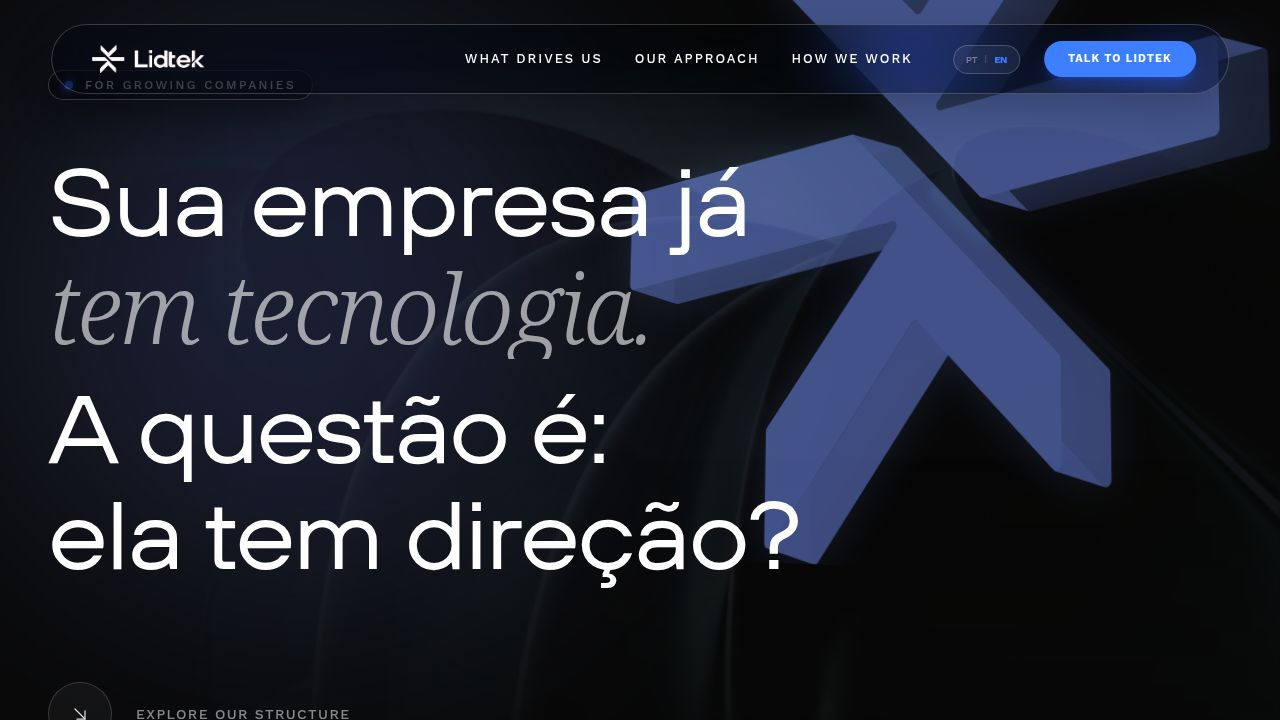
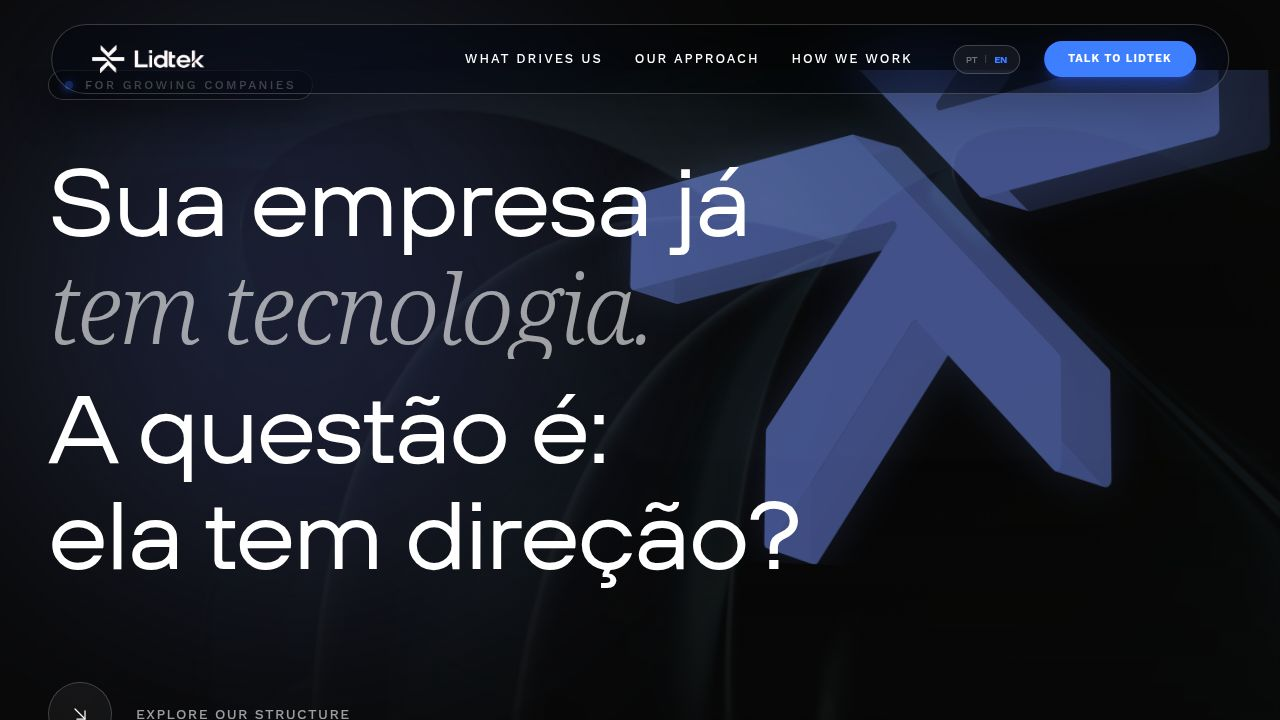
Improve hero section layout and spacing on mobile devices
Adjusted Hero component styling in Hero.tsx to fix mobile layout issues by modifying background SVG positioning, reducing vertical padding, and controlling overflow.

Replit-Commit-Author: Agent
Replit-Commit-Session-Id: 33ac10cf-a4e3-4095-859a-24f422063618
Replit-Commit-Checkpoint-Type: full_checkpoint
Replit-Commit-Event-Id: 1b3940f1-3aea-4555-aa34-38a73a30eb3a
Replit-Commit-Screenshot-Url: https://storage.googleapis.com/screenshot-production-us-central1/1bd49003-f8b5-4081-a1ec-b8d74c53421b/33ac10cf-a4e3-4095-859a-24f422063618/AzeNE4f
Replit-Helium-Checkpoint-Created: true

Changed region(s): [[0.625, 0.0, 0.8438, 0.1528], [0.9062, 0.0306, 1.0, 0.1222]]

diff --git a/client/src/components/sections/Hero.tsx b/client/src/components/sections/Hero.tsx
@@ -33,7 +33,7 @@ export function Hero() {
   }, [mouseX, mouseY]);
 
   return (
-    <section className="relative min-h-[100svh] flex flex-col justify-end pb-12 md:pb-24 px-6 md:px-12 bg-background">
+    <section className="relative min-h-[100svh] flex flex-col justify-end pb-8 md:pb-24 px-6 md:px-12 bg-background overflow-hidden">
       {/* Background Image - Pawel Czerwinski abstract glass */}
       <div className="absolute inset-0 z-0 overflow-hidden">
         <img 
@@ -75,7 +75,7 @@ export function Hero() {
           y: typeof window !== 'undefined' && window.innerWidth < 768 ? 0 : translateY,
           transformPerspective: 1000
         }}
-        className="absolute -right-1/4 -top-[10%] md:-top-[35%] w-[150%] h-[120%] md:w-full md:h-full text-white pointer-events-none origin-center z-0 mix-blend-screen overflow-hidden"
+        className="absolute -right-1/4 -top-[5%] md:-top-[35%] w-[150%] h-auto aspect-square md:w-full md:h-full text-white pointer-events-none origin-center z-0 mix-blend-screen overflow-hidden"
       >
         <div className="relative w-full h-full opacity-40 md:opacity-60">
            {/* SVG container - Using CSS filter to tint the white SVG to the primary brand color */}
@@ -85,7 +85,7 @@ export function Hero() {
         </div>
       </motion.div>
       
-      <div className="relative z-10 w-full max-w-7xl mx-auto flex flex-col items-start gap-8 md:gap-12">
+      <div className="relative z-10 w-full max-w-7xl mx-auto flex flex-col items-start gap-6 md:gap-12">
         <div
           className="flex items-center gap-3 border border-white/10 rounded-full px-4 py-1.5 liquid-glass-dark"
         >
@@ -126,7 +126,7 @@ export function Hero() {
           initial={{ opacity: 0 }}
           animate={{ opacity: 1 }}
           transition={{ duration: 1, delay: 0.8 }}
-          className="flex items-center gap-4 md:gap-6 mt-8 md:mt-12 group cursor-pointer"
+          className="flex items-center gap-4 md:gap-6 mt-4 md:mt-12 group cursor-pointer"
           onClick={() => {
             document.getElementById('problem')?.scrollIntoView({ behavior: 'smooth' });
           }}
